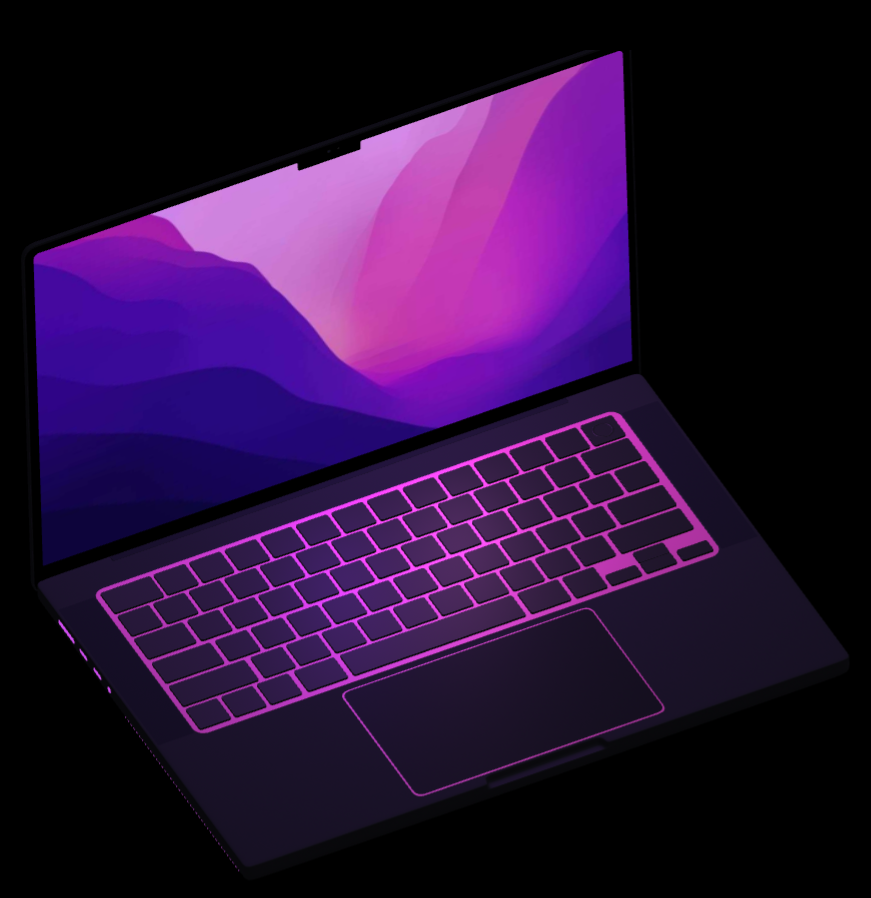
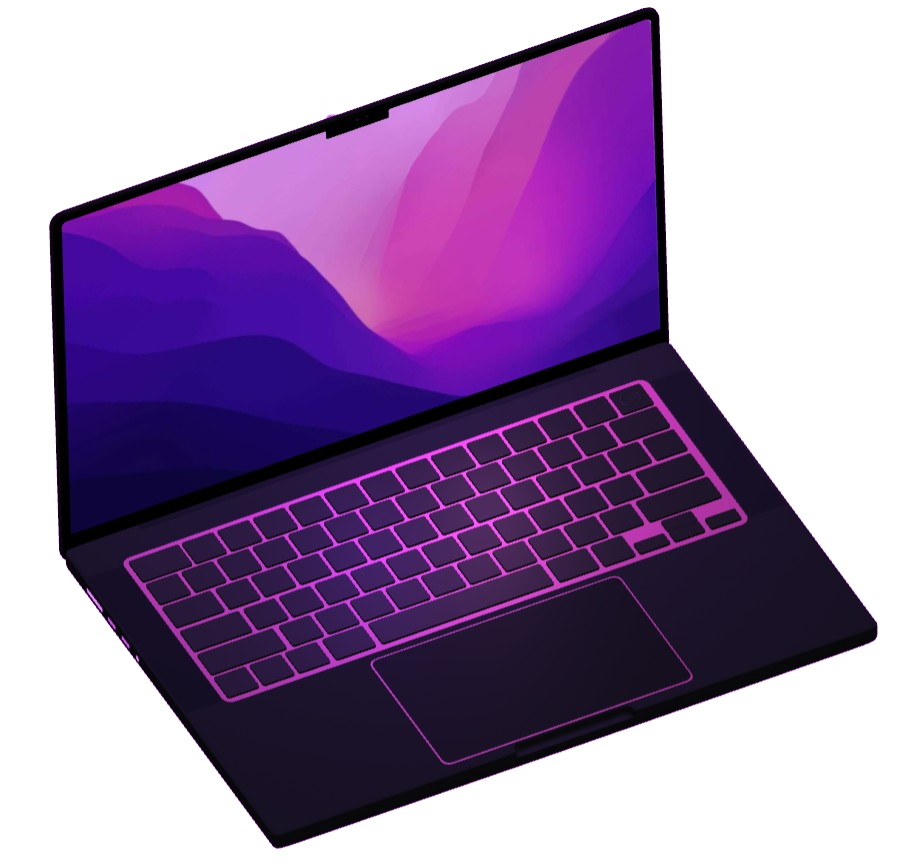
commit

diff --git a/pages/index.js b/pages/index.js
@@ -1,5 +1,3 @@
-
-
 import Navbar from '../Components/Navbar';
 import LeftBar from '../Components/PARTONE/LeftBar';
 import RightBar from '../Components/PARTONE/RightBar';
@@ -9,6 +7,7 @@ import PinkFrame from '../Components/PARTTWO/Frame';
 
 import LeftBar2 from '../Components/PARTTWO/LeftBar';
 
+import { motion } from 'framer-motion';
 
 
 // const LapFrame = loadable(() => import("../Components/PARTONE/RightBar.js"), {
@@ -18,7 +17,18 @@ import LeftBar2 from '../Components/PARTTWO/LeftBar';
 //   fallback:  <div className="example"><Spin /></div>
 // });
 
+const framerAnime  = {
+  initial : {
+    y : 90,
+  
+    opacity:0,
+  },
+  anime : {
+    y:0,
+    opacity:1,
+  },
 
+}
 
 
 
@@ -32,22 +42,22 @@ export default function Home() {
   <>
   
     <Navbar />
-     <div className='container-fluid c1' style={{width:"100%",backgroundColor:"black"}}>
+     <div className='container-fluid c1' style={{width:"100%",backgroundColor:"blue"}}>
        
-          <div className='row'>
-            <div className='col-md-5'style={{margin:"0",padding:"0",}}>
+          <div className='row' style={{backgroundColor:"black"}}>
+            <div className='col-5' >
               <LeftBar />
             </div>
-            <div className='col-md-7'>
+            <motion.div variants={framerAnime} initial="initial" animate="anime" transition={{delay:2,duration:"1"}} className='col-7 'style={{backgroundColor:"#d94ef5"}}>
             
             <RightBar />
-            </div>
+            </motion.div>
           </div>
      </div>
      <div className='container-fluid c2' style={{height:"auto",width:"100%",backgroundColor:"black",marginTop:"0",padding:"auto"}}>
         
            
-        <p className='display-5 para ' align="center" style={{fontFamily:"'Roboto Slab', serif",color:'#d94ef5'}}> <span style={{color:'white',fontSize:'4vh',wordSpacing:'10px',fontWeight:100}}><span className='display-5'>W</span><span style={{fontSize:'5vh'}}>hat I</span> </span>L<span style={{fontSize:'5vh'}}>ove?</span> </p>
+        <p className='display-5 para  ' align="center" style={{fontFamily:"'Roboto Slab', serif",color:'#d94ef5',paddingTop:"10%",}}> <span style={{color:'white',fontSize:'4vh',wordSpacing:'10px',fontWeight:100}}><span className='display-5'>W</span><span style={{fontSize:'5vh'}}>hat I</span> </span>L<span style={{fontSize:'5vh'}}>ove?</span> </p>
         <LeftBar2 />   
          <PinkFrame />
 

diff --git a/styles/globals.css b/styles/globals.css
@@ -17,7 +17,7 @@ a {
   padding: 0;
 }
 .c1{
-  height: 110vh;
+  height: auto;
 }
 .nav-item{
   font-family: 'Roboto Slab', serif;
@@ -30,6 +30,10 @@ a {
   font-family: 'Roboto Slab', serif;
   font-weight: 550 ;
   font-size: 15vw;
+  filter: grayscale(0.2);
+}
+.hcolor:hover{
+  filter: grayscale(0);
 }
 
 .h1color{
@@ -95,20 +99,10 @@ a {
 
 
 
-.lap{
-  padding-left: auto;
-}
 
-.lc{
-  width: 80%;
-  scale: 0.9;
-  transition: 1s ease-in-out;
-}
-.lc:hover{
-  scale: 0.907;
-  transform: translateY(-10px);
- 
-}
+
+
+
 .avc{
   border-radius: 8px;
   transition: 1.5s;
@@ -131,23 +125,24 @@ a {
   width: 30%;
 }
 
+.lap{
+  scale: 0.75;
+  transition: 1s;
+}
+.lap:hover{
+  transform: translateY(-10px);
+}
+
+
 @media only screen and (max-width: 600px) {
   .c1{
-    height: 70vh;
+    height: auto;
   }
   .anime{
     margin-left: auto;
   }
-  .lc{
-    width: 100%;
-    scale: 1.3;
-    transition: 1s ease-in-out;
-  }
-  .lc:hover{
-    scale: 1.3;
-    transform: translateY(-2.7px);
-   
-  }
+  
+
   .seccont{
   
     display: grid;
@@ -168,8 +163,8 @@ a {
   
 }
 
-@media only screen and (min-width: 501px) and (max-width:1000px) {
+@media only screen and (min-width: 600px) and (max-width:1000px) {
   .c1{
-    height: 250vh;
+    height: auto;
   }
 }

diff --git a/Components/PARTONE/LeftBar.js b/Components/PARTONE/LeftBar.js
@@ -26,17 +26,24 @@ const basicFramer = {
 
 function LeftBar() {
     return (
-    <motion.div  className="container-fluid" variants={basicFramer} initial="initial" animate="animate" transition={{duration:2,}} style={{margin:"0",padding:"0",}}>
+    <div  className="container-fluid"  >
         
-        <h4 className="hfour" style={{color:"white",marginLeft:"20%",}}>
+        <motion.h4 variants={basicFramer} initial="initial" animate="animate" transition={{duration:2,}} className="hfour" style={{color:"white",paddingLeft:"10%",}}>
             <span  
             
             
             className="hcolor display-2">H</span>
         <span className="h1color display-1">ello,</span>
         
-        <br/>My name is <span className="hello" style={{color:"#d94ef5"}}>Fif</span> and I am a <span className="" style={{color:"#d94ef5"}}>Web </span>Designer / Dev.</h4>
-    </motion.div>);
+        <br/>My name is <span className="hello" style={{color:"#d94ef5"}}>Fif</span> and I am a <span className="" style={{color:"#d94ef5"}}>Web </span>Designer / Dev.</motion.h4>
+    
+        
+
+    </div>
+    
+    
+    
+    );
 };
 
 export default LeftBar;

diff --git a/Components/PARTTHREE/card.js b/Components/PARTTHREE/card.js
@@ -13,25 +13,7 @@ function AvatarCard() {
         <div className='card avc my-5 ' style={{height:"auto"}} >
            
             
-            {/* <motion.svg 
-                version="1.1" 
-                id="Layer_1" 
-                xmlns="http://www.w3.org/2000/svg" 
-                xmlnsXlink="http://www.w3.org/1999/xlink" 
-                width="250px"
-                height="250px"
-                viewBox="0 0 190.45 144.26"
-                
             
-                >
-               
-                <motion.path 
-                
-                initial={{opacity:0,pathLength:0}}
-                animate = {{opacity:1,pathLength:1}}
-                transition={{yoyo: Infinity, duration:3,ease:"easeInOut"}}
-                stroke='#d94ef5' className="st0" d= "M26.38,143.76l47.28-77.62l35.22,27.06L94.82,2.83l94.69,140.93H0.92L93.13,0.27"/>
-            </motion.svg> */}
             
             <div className='card-body' >
                 <p style={{color:"black",fontFamily:"'Roboto Slab', serif"}} align="center">ƎM ЯƎHԳIƆƎႧ</p>

diff --git a/Components/PARTONE/RightBar.js b/Components/PARTONE/RightBar.js
@@ -3,13 +3,13 @@ import { motion,AnimatePresence } from 'framer-motion';
 const basicFramer = {
 
     initial : {
-        y : -50,
+        y : 20,
         opacity : 0,
        
     },
 
     animate : {
-        y : 50,
+        y : 0,
         opacity:1,
         
     },
@@ -30,12 +30,12 @@ const basicFramer = {
 		<>
         
 		
-		<motion.div  variants={basicFramer} initial="initial"  animate="animate" transition={{delay:2,duration:2}}  className='container-fluid xs my-3' style={{margin:"0",padding:"0",}}>
-            <div className='card lc'  > 
-                <img className='img-fluid lap' draggable="false" src="./images/lap.png"></img>
-            </div>
+		
+            <motion.div className='card-body lc '  variants={basicFramer} initial="initial"  animate="animate" transition={{delay:4,duration:1}}> 
+                <img className='img-fluid lap ' draggable="false" src="./images/lap.png"></img>
+            </motion.div>
         
-		</motion.div>
+		
 		
 		</>
 		

diff --git a/pages/profile.js b/pages/profile.js
@@ -1,0 +1,12 @@
+import React from "react";
+import Navbar from "../Components/Navbar";
+
+function Profile() {
+    return(<>
+    
+    <Navbar />
+
+    </>)
+};
+
+export default Profile;
